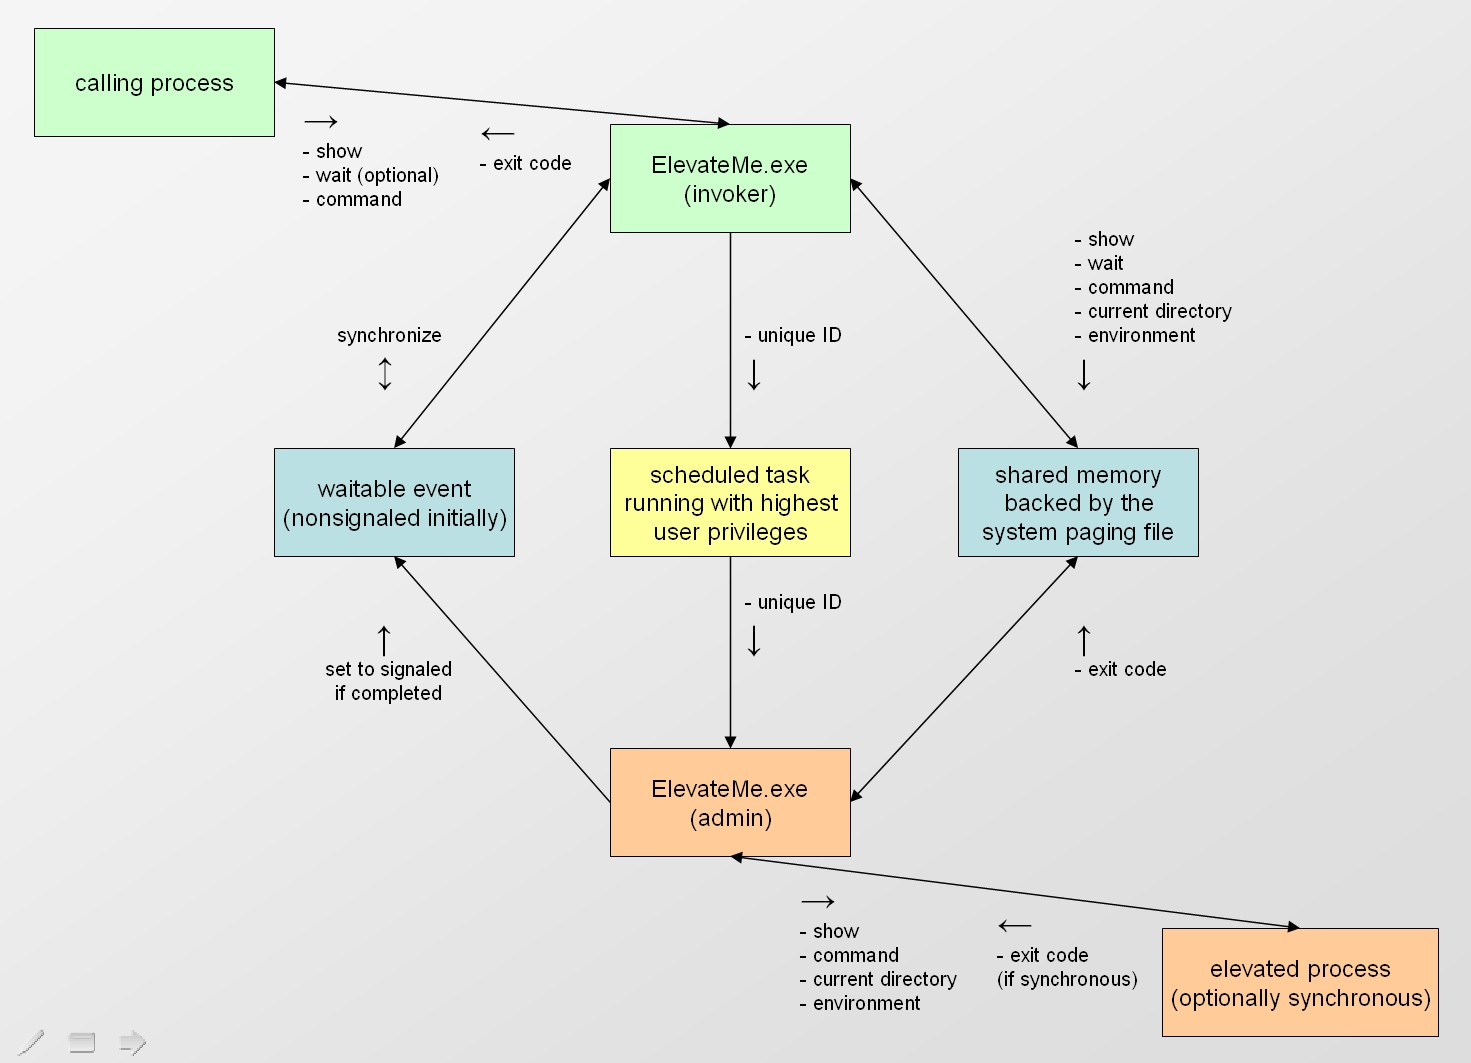
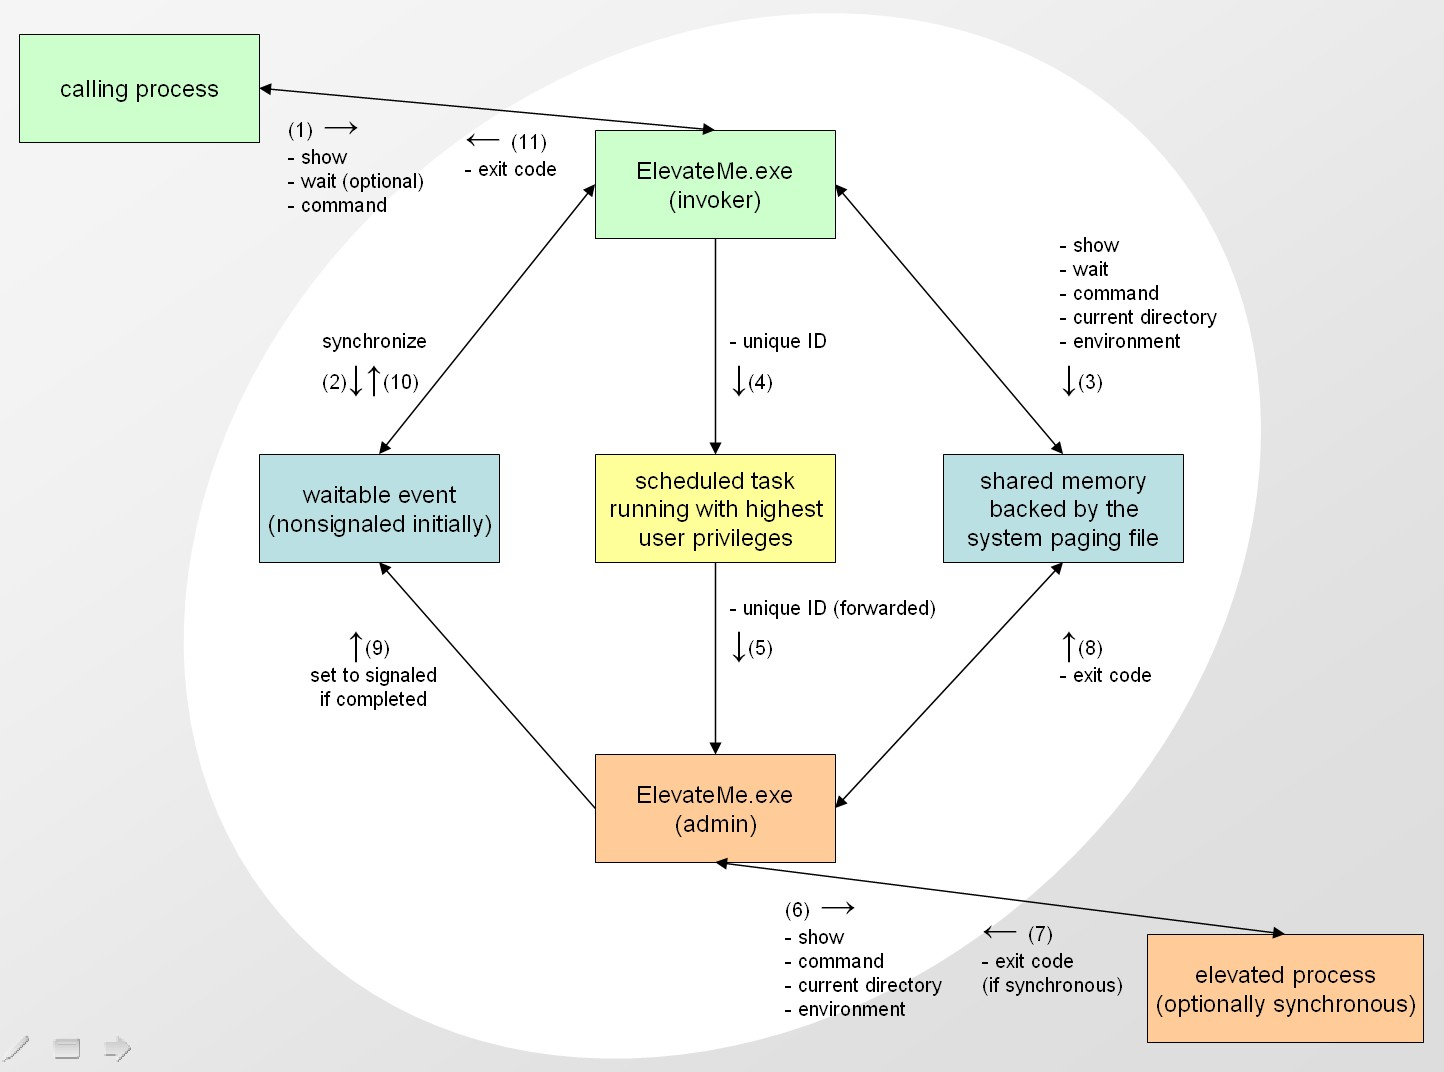
add sequence numbering

diff --git a/README.md b/README.md
@@ -28,7 +28,7 @@ You can delete the installation files if they are not needed any longer.
 **`ElevateMe.exe show [wait] command`**  
 
 | argument | description |  
-| --- | --- |  
+| :---: | :--- |  
 | show | Integer value that specifies the window appearance of the elevated process.<br> When in doubt choose 1, 3 or 7. No other values are recommended.<br> Supported values are:<br> &nbsp; 0 &nbsp; Hide the window and activate another window.<br> &nbsp; 1 &nbsp; Activate and display the window.<br> &nbsp; 2 &nbsp; Activate and minimize.<br> &nbsp; 3 &nbsp; Activate and maximize.<br> &nbsp; 4 &nbsp; Restore. The active window remains active.<br> &nbsp; 5 &nbsp; Activate and Restore.<br> &nbsp; 6 &nbsp; Minimize and activate the next top-level window in the Z order.<br> &nbsp; 7 &nbsp; Minimize. The active window remains active.<br> Carefully use 0, take into account that you are not able to interact with a hidden window that tries to prompt you for input. |
 | wait<br> (optional) | Integer value that specifies whether or not the elevated process is synchronized with the execution of the calling process.<br> Value 0 is for "false", any other value is for "true".<br> If omitted, the elevated process is not synchronized ("false"). That is, the calling process does not wait for the elevated process to terminate before it resumes the execution. |
 | command | One or more tokens that collectively form the command, where the first token is the name of the application (\*.exe, \*.com) to be executed with elevated privileges. |
@@ -49,7 +49,7 @@ You can delete the installation files if they are not needed any longer.
 
 ----
 
-### Workflow:  
+### Internal workflow:  
 This figure illustrates the design.  
 Note that there are two instances of "ElevateMe.exe". The first is created by the user, the second is created by the scheduled task with highest available privileges.  
 
